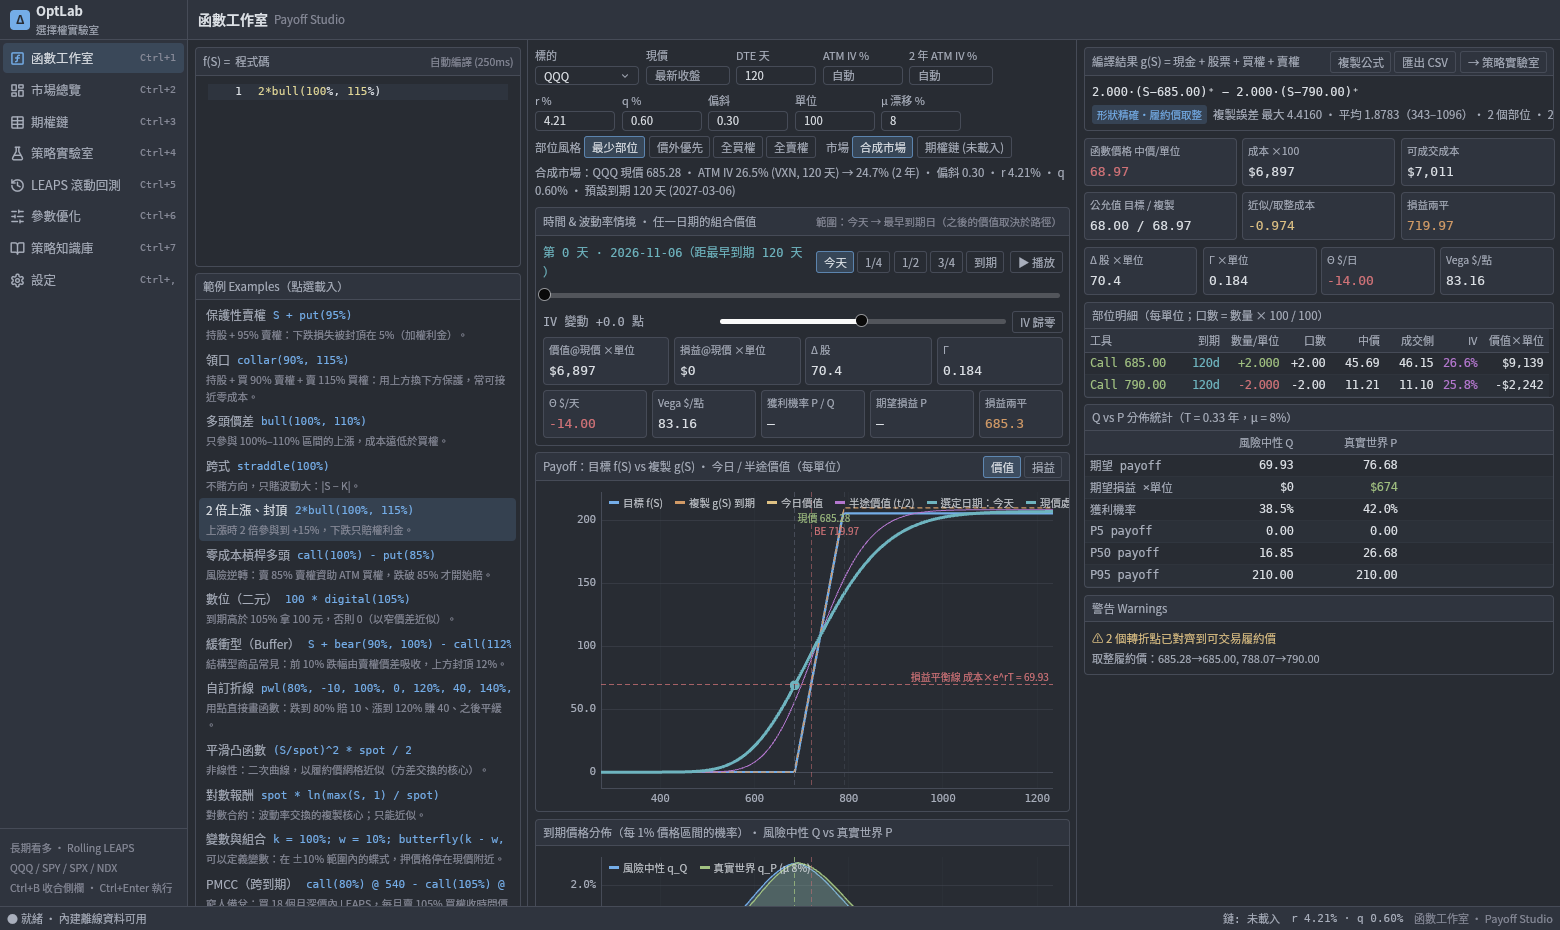
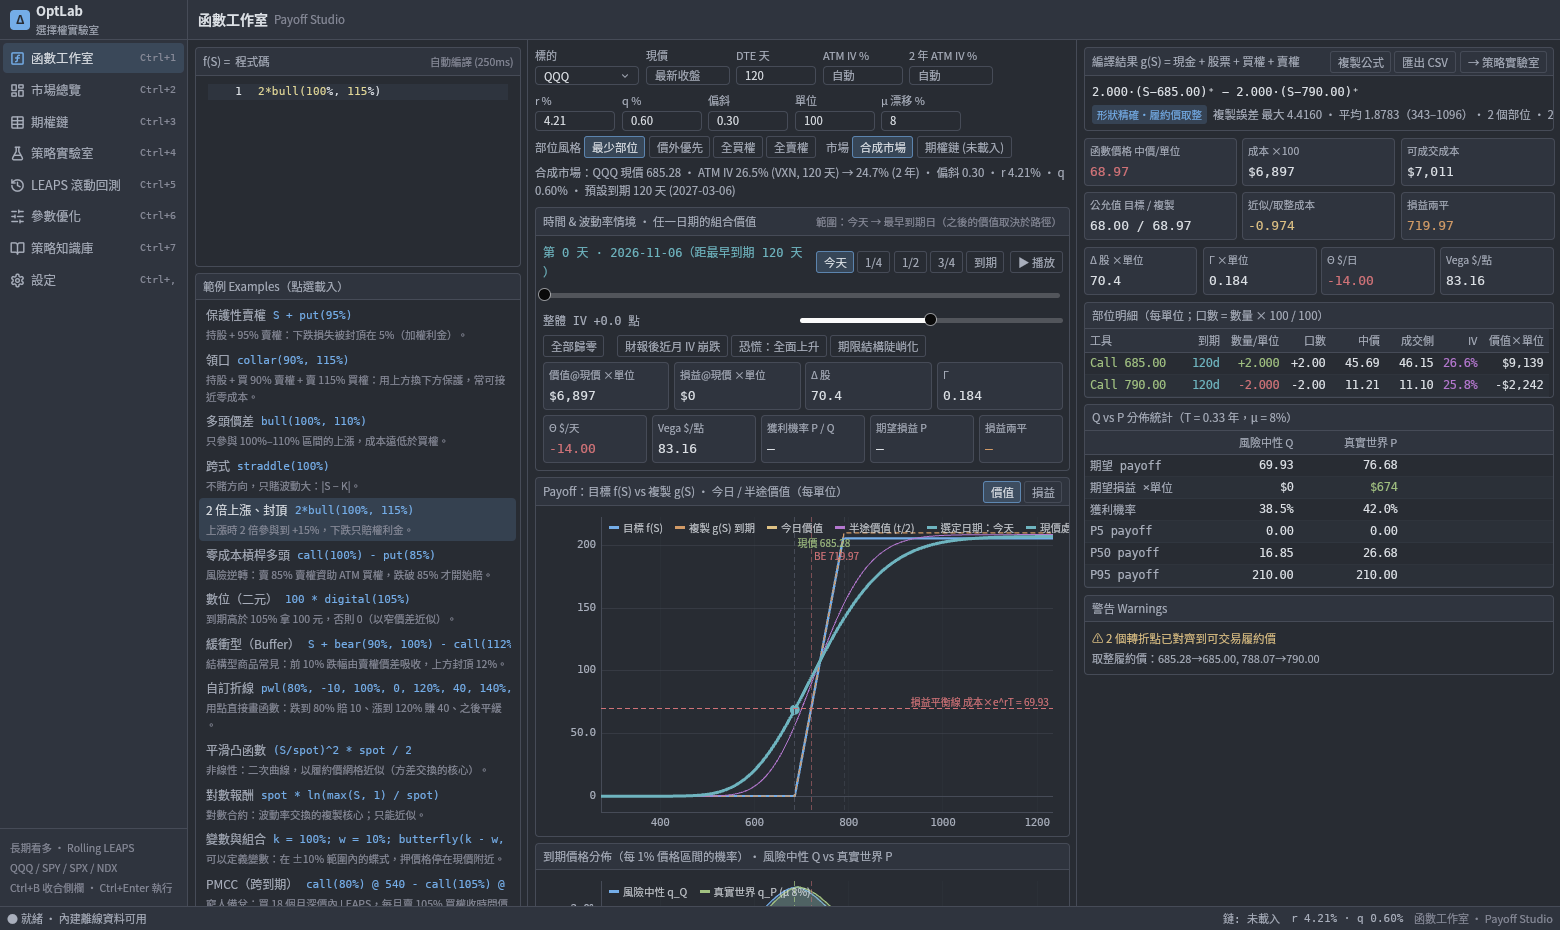
Payoff Studio: separate near/far (per-expiry) IV sliders, link toggle, scenario presets, vega by expiry
Claude-Session: https://claude.ai/code/session_01Uhr3zESC44wNPchMd8zFYr

Changed region(s): [[0.3385, 0.343, 0.6769, 0.9978], [0.5846, 0.7172, 0.6769, 0.7796], [0.6462, 0.343, 0.6769, 0.3742]]

diff --git a/crates/app/src/pages/studio.rs b/crates/app/src/pages/studio.rs
@@ -16,7 +16,7 @@ use gpui_component::{
     slider::{Slider, SliderEvent, SliderState},
     v_flex, ActiveTheme, IndexPath, Sizable,
 };
-use optlab_core::payoff::{compile_book, date_view, examples, DateView, parse, price, value_curve, CompileOptions, Instrument, LegStyle, Market, PayoffStats, PricedPayoff, Replication, SyntheticMarket};
+use optlab_core::payoff::{compile_book, date_view_scenario, examples, DateView, VolScenario, parse, price, value_curve, CompileOptions, Instrument, LegStyle, Market, PayoffStats, PricedPayoff, Replication, SyntheticMarket};
 use optlab_core::strategy::{Leg, Strategy};
 use optlab_core::{OptionChain, OptionKind};
 use optlab_data::{bundled, presets};
@@ -130,6 +130,13 @@ pub struct StudioPage {
     iv_slider: Entity<SliderState>,
     day: f64,
     dvol: f64,
+    /// Per option expiry: (days, years, slider) and shift in vol points (on top of `dvol`).
+    exp_sliders: Vec<(f64, f64, Entity<SliderState>)>,
+    exp_shifts: Vec<f64>,
+    linked: bool,
+    /// Slider thumbs must be re-synced from `dvol` / `exp_shifts` at the next render.
+    slider_sync: bool,
+    _exp_subs: Vec<Subscription>,
     pnl_mode: bool,
     view: Option<DateView>,
     view_gen: u64,
@@ -313,6 +320,11 @@ impl StudioPage {
             iv_slider: cx.new(|_| SliderState::new().min(-20.0).max(20.0).step(0.5).default_value(0.0)),
             day: 0.0,
             dvol: 0.0,
+            exp_sliders: vec![],
+            exp_shifts: vec![],
+            linked: false,
+            slider_sync: false,
+            _exp_subs: vec![],
             pnl_mode: false,
             view: None,
             view_gen: 0,
@@ -361,12 +373,6 @@ impl StudioPage {
         self.schedule_view(cx);
     }
 
-    fn set_dvol(&mut self, v: f64, window: &mut Window, cx: &mut Context<Self>) {
-        self.dvol = v;
-        self.iv_slider.update(cx, |s, cx| s.set_value(v as f32, window, cx));
-        self.schedule_view(cx);
-    }
-
     /// Animate the date slider from the current day to the horizon (~3 s, 30 frames).
     fn toggle_play(&mut self, window: &mut Window, cx: &mut Context<Self>) {
         if self.playing != 0 {
@@ -411,9 +417,10 @@ impl StudioPage {
         let Some(out) = self.out.clone() else { return };
         self.view_gen += 1;
         let g = self.view_gen;
-        let (day, dv) = (self.day, self.dvol / 100.0);
+        let day = self.day;
+        let sc = self.scenario();
         let task = cx.background_executor().spawn(async move {
-            std::panic::catch_unwind(std::panic::AssertUnwindSafe(|| date_view(&out.priced, &out.mkt, &out.xs, day, dv))).ok()
+            std::panic::catch_unwind(std::panic::AssertUnwindSafe(|| date_view_scenario(&out.priced, &out.mkt, &out.xs, day, &sc))).ok()
         });
         cx.spawn(async move |this, cx| {
             let v = task.await;
@@ -430,8 +437,85 @@ impl StudioPage {
     }
 
     fn rebuild_main(&mut self) {
+        let iv = if self.iv_moved() { 1.0 } else { 0.0 };
         if let (Some(o), Some(ch)) = (self.out.as_ref(), self.charts.as_mut()) {
-            ch.main = Self::main_chart(o, self.view.as_ref(), self.pnl_mode, self.day, self.dvol);
+            ch.main = Self::main_chart(o, self.view.as_ref(), self.pnl_mode, self.day, iv);
+        }
+    }
+
+    fn iv_moved(&self) -> bool {
+        self.dvol.abs() > 1e-9 || self.exp_shifts.iter().any(|x| x.abs() > 1e-9)
+    }
+
+    /// Current IV scenario: parallel + one shift per option expiry (decimals).
+    fn scenario(&self) -> VolScenario {
+        VolScenario {
+            parallel: self.dvol / 100.0,
+            term: self.exp_sliders.iter().zip(&self.exp_shifts).map(|((_, t, _), x)| (*t, *x / 100.0)).collect(),
+        }
+    }
+
+    /// Rebuild the per-expiry sliders for the book's option expiries (only with 2+).
+    fn rebuild_exp_sliders(&mut self, cx: &mut Context<Self>) {
+        let ex: Vec<(f64, f64)> = self.out.as_ref().map(|o| o.priced.expiries()).unwrap_or_default();
+        let ex: Vec<(f64, f64)> = if ex.len() >= 2 { ex } else { vec![] };
+        let same = ex.len() == self.exp_sliders.len() && ex.iter().zip(&self.exp_sliders).all(|(a, b)| (a.0 - b.0).abs() < 0.5);
+        if same {
+            // keep values, refresh the year fractions
+            for (e, s) in ex.iter().zip(self.exp_sliders.iter_mut()) {
+                s.1 = e.1;
+            }
+            return;
+        }
+        self.exp_shifts = vec![0.0; ex.len()];
+        self.exp_sliders.clear();
+        self._exp_subs.clear();
+        for (i, (d, t)) in ex.into_iter().enumerate() {
+            let sl = cx.new(|_| SliderState::new().min(-20.0).max(20.0).step(0.5).default_value(0.0));
+            self._exp_subs.push(cx.subscribe(&sl, move |this, _, ev: &SliderEvent, cx| {
+                let SliderEvent::Change(v) = ev;
+                let v = v.start() as f64;
+                this.playing = 0;
+                if this.linked {
+                    for x in this.exp_shifts.iter_mut() {
+                        *x = v;
+                    }
+                    this.slider_sync = true;
+                } else if let Some(x) = this.exp_shifts.get_mut(i) {
+                    *x = v;
+                }
+                this.schedule_view(cx);
+                cx.notify();
+            }));
+            self.exp_sliders.push((d, t, sl));
+        }
+    }
+
+    /// Apply a scenario preset (`near`/`far` in vol points; `parallel` added on top).
+    fn apply_preset(&mut self, parallel: f64, near: f64, far: f64, window: &mut Window, cx: &mut Context<Self>) {
+        self.playing = 0;
+        match (self.out.as_ref(), self.exp_sliders.len()) {
+            (Some(o), n) if n >= 2 => {
+                let sc = VolScenario::near_far(&o.priced, near / 100.0, far / 100.0);
+                self.exp_shifts = self.exp_sliders.iter().map(|(_, t, _)| ((sc.shift_for(*t) * 100.0) * 2.0).round() / 2.0).collect();
+                self.dvol = parallel;
+            }
+            _ => {
+                self.dvol = parallel + near;
+            }
+        }
+        self.sync_slider_thumbs(window, cx);
+        self.schedule_view(cx);
+        cx.notify();
+    }
+
+    fn sync_slider_thumbs(&mut self, window: &mut Window, cx: &mut Context<Self>) {
+        self.slider_sync = false;
+        let dv = self.dvol as f32;
+        self.iv_slider.update(cx, |s, cx| s.set_value(dv, window, cx));
+        for ((_, _, sl), x) in self.exp_sliders.iter().zip(&self.exp_shifts) {
+            let v = *x as f32;
+            sl.update(cx, |s, cx| s.set_value(v, window, cx));
         }
     }
 
@@ -512,6 +596,7 @@ impl StudioPage {
                         this.view = None;
                         let h = this.horizon_days();
                         this.reset_sliders(h, cx);
+                        this.rebuild_exp_sliders(cx);
                         this.schedule_view(cx);
                     }
                     Err(e) => this.error = Some(e),
@@ -550,7 +635,15 @@ impl StudioPage {
         if let Some(v) = view {
             let pts: Vec<(f64, f64)> = v.curve.iter().filter(|c| c.1.is_finite()).map(|c| (c.0, if pnl { c.2 } else { c.1 })).collect();
             let label = if v.elapsed_days <= 0.0 { "選定日期：今天".to_string() } else { format!("選定日期：第 {:.0} 天", v.elapsed_days) };
-            let label = if v.vol_shift.abs() > 1e-9 { format!("{label} · IV {:+.1} 點", v.vol_shift * 100.0) } else { label };
+            let label = if !v.scenario.is_zero() {
+                if v.scenario.term.is_empty() {
+                    format!("{label} · IV {:+.1} 點", v.scenario.parallel * 100.0)
+                } else {
+                    format!("{label} · IV 情境")
+                }
+            } else {
+                label
+            };
             main = main.series(Series::line(label, pts, p.cyan).width(3.0));
             let y = if pnl { v.pnl_at_spot } else { v.value_at_spot };
             if y.is_finite() {
@@ -582,6 +675,7 @@ impl StudioPage {
         let pr = &o.priced;
         let fin = |v: &[(f64, f64)]| -> Vec<(f64, f64)> { v.iter().copied().filter(|(_, y)| y.is_finite()).collect() };
         let main = Self::main_chart(o, None, pnl, 0.0, dvol);
+        // (dvol only flags "IV moved" for dimming; the cyan curve carries the real scenario)
         // densities as probability per 1% of spot
         let scale = pr.spot * 0.01;
         let dq: Vec<(f64, f64)> = pr.density.iter().filter(|d| d.0 >= o.lo && d.0 <= o.hi).map(|d| (d.0, d.1 * scale)).collect();
@@ -801,7 +895,7 @@ impl StudioPage {
             let g = v.greeks;
             let day0 = v.elapsed_days <= 0.0;
             // on day 0 without an IV shift the P&L is identically ~0 at spot: crossings are noise
-            let be = if v.breakevens.is_empty() || (day0 && v.vol_shift == 0.0) {
+            let be = if v.breakevens.is_empty() || (day0 && v.scenario.is_zero()) {
                 "—".to_string()
             } else {
                 v.breakevens.iter().map(|b| format!("{b:.1}")).collect::<Vec<_>>().join(" / ")
@@ -816,6 +910,10 @@ impl StudioPage {
                 .child(kpi_sm("獲利機率 P / Q", if day0 { "—".to_string() } else { format!("{} / {}", pct(v.prob_profit_p), pct(v.prob_profit_q)) }, None, cx).min_w(px(104.0)))
                 .child(kpi_sm("期望損益 P", if day0 { "—".to_string() } else { money(v.expected_pnl_p * u) }, if day0 { None } else { Some(sign_color(v.expected_pnl_p)) }, cx).min_w(px(104.0)))
                 .child(kpi_sm("損益兩平", be, Some(p.orange), cx));
+            if v.vega_by_expiry.len() >= 2 {
+                let txt = v.vega_by_expiry.iter().map(|(d, vg)| format!("@{d:.0}d {}", money(vg * u))).collect::<Vec<_>>().join(" · ");
+                kpis = kpis.child(kpi_sm("Vega 分到期 $/點", txt, Some(p.purple), cx).min_w(px(220.0)));
+            }
         }
         panel_with(
             "時間 & 波動率情境 · 任一日期的組合價值",
@@ -845,12 +943,43 @@ impl StudioPage {
                 .child(
                     h_flex()
                         .gap_2()
-                        .child(div().w(px(170.0)).flex_none().text_size(px(12.0)).font_family(MONO_FONT).text_color(if self.dvol.abs() > 1e-9 { p.yellow } else { p.muted }).child(format!("IV 變動 {:+.1} 點", self.dvol)))
-                        .child(div().flex_1().min_w(px(100.0)).child(Slider::new(&self.iv_slider)))
-                        .child(chip("iv-reset", "IV 歸零", false, cx).on_click(cx.listener(|this, _, window, cx| {
-                            this.playing = 0;
-                            this.set_dvol(0.0, window, cx);
-                        }))),
+                        .child(div().w(px(250.0)).flex_none().whitespace_nowrap().text_size(px(11.5)).font_family(MONO_FONT).text_color(if self.dvol.abs() > 1e-9 { p.yellow } else { p.muted }).child(format!("整體 IV {:+.1} 點", self.dvol)))
+                        .child(div().flex_1().min_w(px(100.0)).child(Slider::new(&self.iv_slider))),
+                )
+                .children(self.exp_sliders.iter().enumerate().map(|(i, (d, _, sl))| {
+                    let n = self.exp_sliders.len();
+                    let name = if n == 2 {
+                        format!("{} @{d:.0}d", if i == 0 { "近月" } else { "遠月" })
+                    } else if i == 0 {
+                        format!("近月 @{d:.0}d")
+                    } else if i + 1 == n {
+                        format!("遠月 @{d:.0}d")
+                    } else {
+                        format!("@{d:.0}d")
+                    };
+                    let total = self.dvol + self.exp_shifts.get(i).copied().unwrap_or(0.0);
+                    let vega = self.view.as_ref().and_then(|v| v.vega_by_expiry.iter().find(|e| (e.0 - d).abs() < 0.5).map(|e| e.1 * o.priced.units));
+                    let vtxt = vega.map(|v| format!(" · Vega {}", money(v))).unwrap_or_default();
+                    h_flex()
+                        .gap_2()
+                        .child(div().w(px(250.0)).flex_none().whitespace_nowrap().text_size(px(11.5)).font_family(MONO_FONT).text_color(if total.abs() > 1e-9 { p.yellow } else { p.muted }).child(format!("{name} {total:+.1}點{vtxt}")))
+                        .child(div().flex_1().min_w(px(100.0)).child(Slider::new(sl)))
+                }))
+                .child(
+                    h_flex()
+                        .gap_1()
+                        .flex_wrap()
+                        .when(!self.exp_sliders.is_empty(), |d| {
+                            d.child(chip("iv-link", "連動", self.linked, cx).on_click(cx.listener(|this, _, _, cx| {
+                                this.linked = !this.linked;
+                                cx.notify();
+                            })))
+                        })
+                        .child(chip("iv-reset", "全部歸零", false, cx).on_click(cx.listener(|this, _, window, cx| this.apply_preset(0.0, 0.0, 0.0, window, cx))))
+                        .child(div().w(px(6.0)))
+                        .child(chip("pre-earn", "財報後近月 IV 崩跌", false, cx).on_click(cx.listener(|this, _, window, cx| this.apply_preset(0.0, -8.0, -2.0, window, cx))))
+                        .child(chip("pre-panic", "恐慌：全面上升", false, cx).on_click(cx.listener(|this, _, window, cx| this.apply_preset(10.0, 0.0, 0.0, window, cx))))
+                        .child(chip("pre-steep", "期限結構陡峭化", false, cx).on_click(cx.listener(|this, _, window, cx| this.apply_preset(0.0, -3.0, 3.0, window, cx)))),
                 )
                 .child(kpis),
         )
@@ -1062,7 +1191,10 @@ impl StudioPage {
 }
 
 impl Render for StudioPage {
-    fn render(&mut self, _window: &mut Window, cx: &mut Context<Self>) -> impl IntoElement {
+    fn render(&mut self, window: &mut Window, cx: &mut Context<Self>) -> impl IntoElement {
+        if self.slider_sync {
+            self.sync_slider_thumbs(window, cx);
+        }
         let p = palette();
         let left = self.render_left(cx);
         let middle = self.render_middle(cx);

diff --git a/README.md b/README.md
@@ -72,7 +72,7 @@ strangle(95%, 105%) @ 60 - strangle(95%, 105%) @ 30   # 雙日曆
 - 現價處的損益與 Greeks
 - 獲利機率（用當天的價格分佈計算）與損益兩平點
 
-IV 滑桿（±20 個 vol 點）可以模擬 IV 崩跌或暴漲，例如財報後 IV 下降對日曆價差的影響。最早到期日之後，組合價值會取決於近月到期時的價格路徑，無法再畫成「現價 → 價值」的一條曲線，所以滑桿最遠只到最早到期日。
+IV 滑桿（±20 個 vol 點）可以模擬 IV 崩跌或暴漲。除了整體平移，每個到期日都有自己的滑桿，可以分別調整近月與遠月（中間的到期日依時間內插），並顯示各到期日的 Vega。內建情境有「財報後近月 IV 崩跌」「恐慌：全面上升」「期限結構陡峭化」。例如日曆價差是近月 Vega 為負、遠月為正，近月 IV −8 點時賺錢，遠月 IV −3 點時虧錢。命令列用 `--vol-near`、`--vol-far`、`--vol-term "30:-8,90:-2"`。最早到期日之後，組合價值會取決於近月到期時的價格路徑，無法再畫成「現價 → 價值」的一條曲線，所以滑桿最遠只到最早到期日。
 
 **定價與分析：**
 - 價格：中價與可成交價（買在 ask、賣在 bid）。
